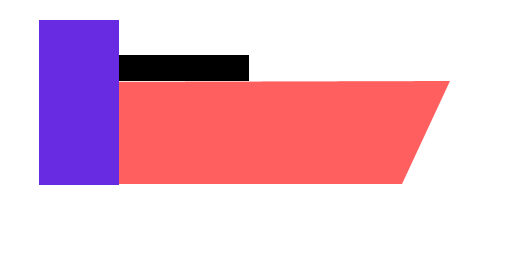
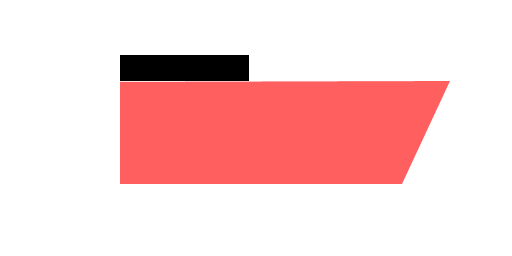
不要な画像を消去

Changed region(s): [[0.0625, 0.0625, 0.25, 0.75]]

diff --git a/UI/PlayerUI.cpp b/UI/PlayerUI.cpp
@@ -29,13 +29,12 @@ PlayerUI::~PlayerUI()
 void PlayerUI::Initialize()
 {
 
-	hPict_ = Image::Load("Image/PlayerUI/PlayerUI2.png");
+	hPict_ = Image::Load("Image/PlayerUI/PlayerUI.png");
 
 	playerUITrans_.scale_ = PLAYERUI_SIZE;
 
 	pHpGauge_ = Instantiate<HpGaugeUI>(this);
 	pHpGauge_ ->SetScale(GAUGE_SIZE);
-	//pHpGauge_ ->SetGauge(100, 100);
 
 	pText_ = new Text;
 	pText_->Initialize();

diff --git a/Stage/CreateMode/StageSource/OneBrock.cpp b/Stage/CreateMode/StageSource/OneBrock.cpp
@@ -30,7 +30,7 @@ void OneBrock::ChildUpdate()
 void OneBrock::ChildDraw()
 {
 	Model::SetTransform(hModel_, transform_);
-	//Model::Draw(hModel_);
+	Model::Draw(hModel_);
 }
 
 void OneBrock::ChildRelease()
